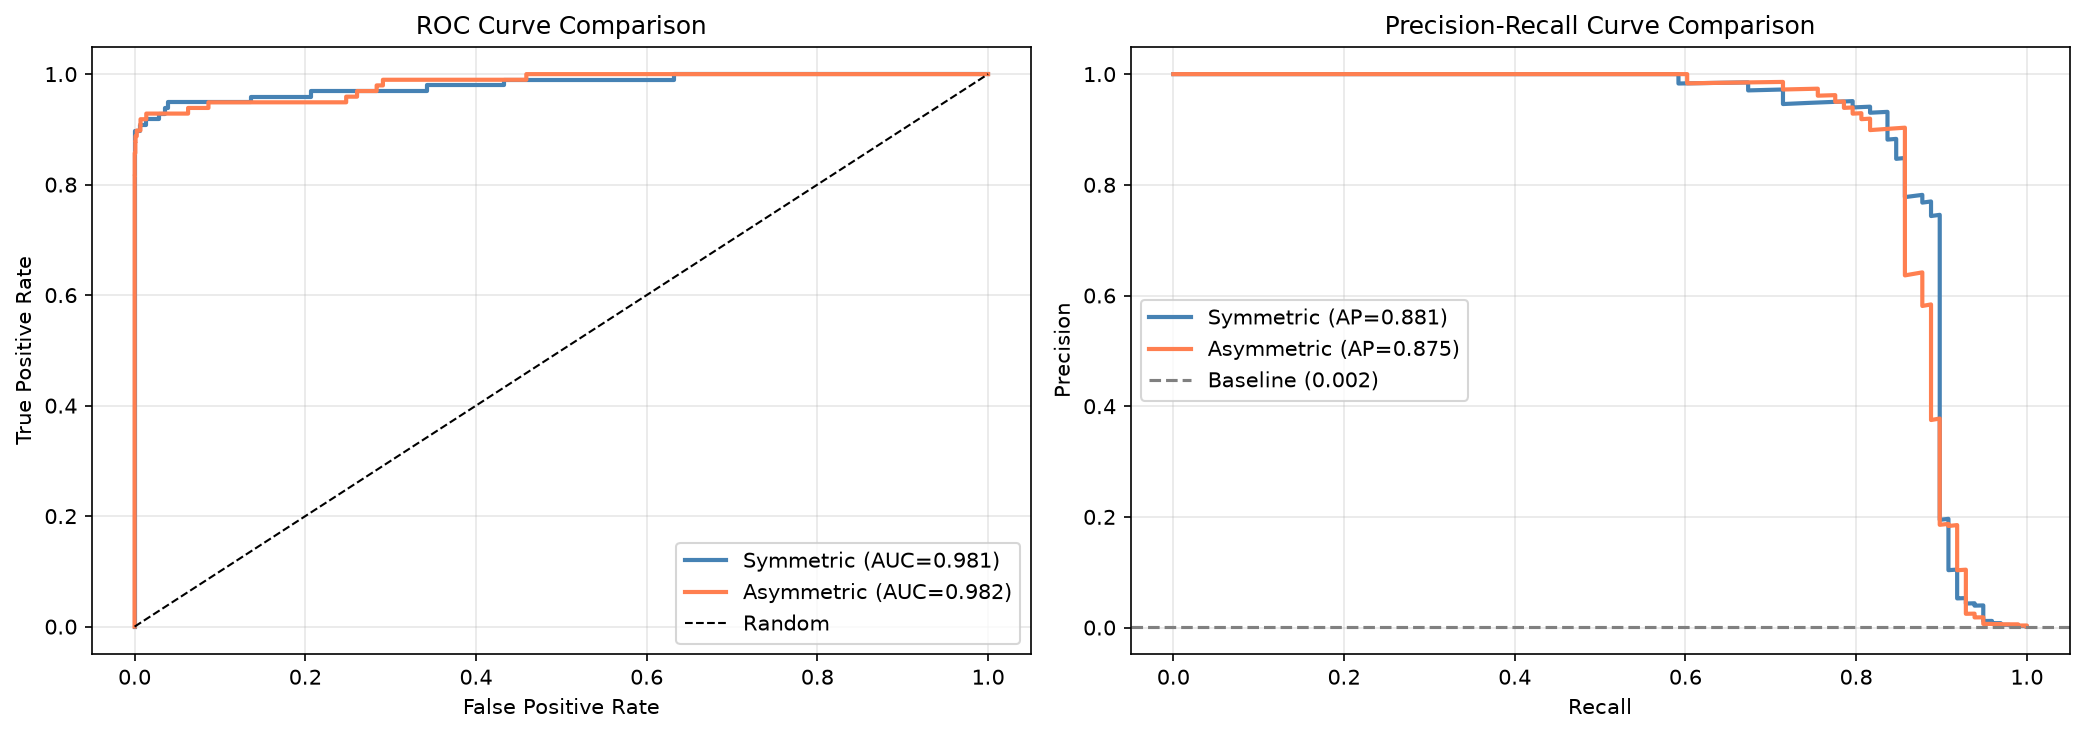
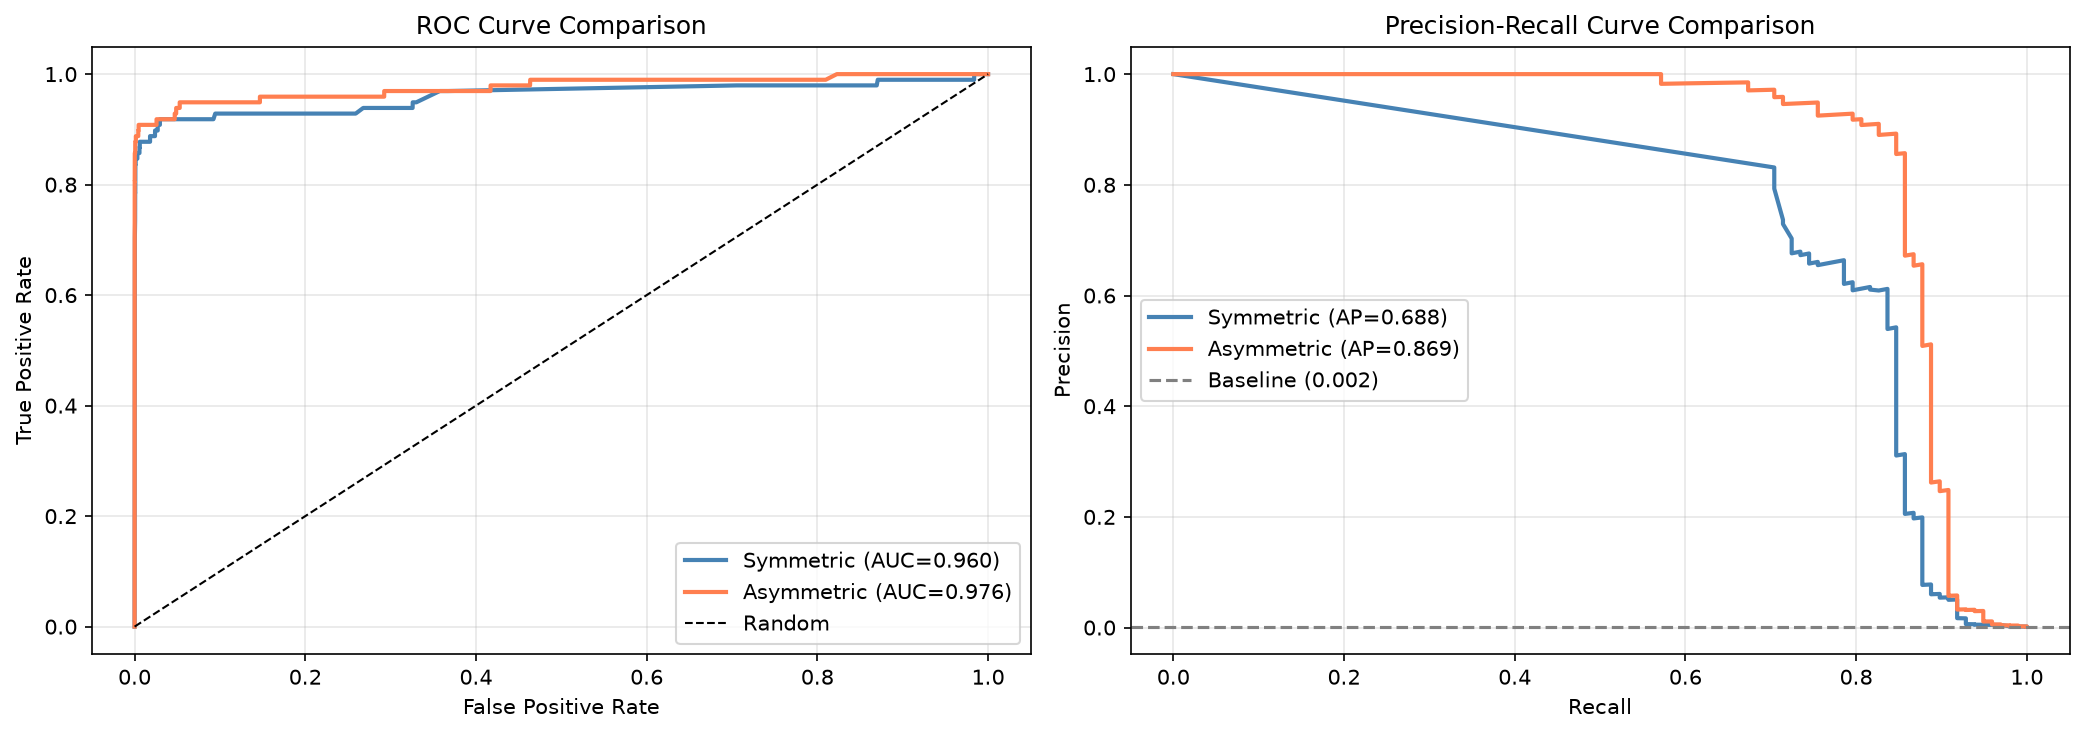
Refresh evaluation plots and clarify raw scores

diff --git a/src/dashboard.py b/src/dashboard.py
@@ -172,8 +172,8 @@ if tab_choice == "📊 Model Comparison & Audit":
     ) if metrics else 0
     st.subheader(f"Audited Test Evaluation on Untouched Held-Out Split ({test_row_count:,} Transactions)")
     st.write(
-        "Both models were trained on 199,364 transactions (0.173% positive rate), tuned on a distinct validation split (28,481 rows), "
-        "and evaluated **strictly once** on the held-out test set."
+        "Both models were trained on 199,364 transactions (0.173% positive rate). Thresholds and calibration were selected "
+        "using a distinct validation split (28,481 rows); the metrics below report performance on the separate held-out test set."
     )
 
     if metrics:
@@ -546,7 +546,10 @@ elif tab_choice == "🔍 Live Transaction Scoring & SHAP":
             # Local SHAP Feature Breakdown
             st.markdown("---")
             st.markdown("### 🔍 Exact Instance-Level SHAP Feature Contributions")
-            st.caption("Additive decomposition in log-odds: logit(p) = base_value + sum(shap_values).")
+            st.caption(
+                "SHAP values reconstruct the XGBoost raw margin before calibration: "
+                "raw margin = baseline value + sum(feature attributions). The decision uses the score shown above."
+            )
 
             sh_c1, sh_c2 = st.columns(2)
             with sh_c1:
@@ -579,10 +582,21 @@ elif tab_choice == "🔍 Live Transaction Scoring & SHAP":
                 else:
                     st.write("No features significantly lowered the score.")
 
+            shap_shift = local_exp["total_log_odds"] - local_exp["base_value_log_odds"]
+            calibration_note = (
+                f"Platt-calibrated decision score: **{decision.fraud_probability:.4%}**. "
+                "The calibrated score above is used for the action."
+                if calibrated
+                else f"Uncalibrated decision score: **{decision.fraud_probability:.4%}**. "
+                "This score is a model risk score, not a posterior probability."
+            )
             st.info(
-                f"**Attribution Sanity Check:**  \n"
-                f"Base Prior Log-Odds: `{local_exp['base_value_log_odds']}` (Base Probability: `{local_exp['base_probability']:.4%}`)  \n"
-                f"Total Log-Odds Shift: `{local_exp['total_log_odds']}` $\\rightarrow$ Final Posterior Fraud Probability: `{local_exp['fraud_probability']:.4%}`."
+                f"**Raw-margin attribution check (pre-calibration):**  \n"
+                f"Baseline margin: `{local_exp['base_value_log_odds']:+.4f}`; "
+                f"sum of SHAP contributions: `{shap_shift:+.4f}`; "
+                f"reconstructed raw margin: `{local_exp['total_log_odds']:+.4f}`; "
+                f"raw sigmoid score: `{local_exp['raw_model_score']:.4%}`.  \n"
+                f"{calibration_note}"
             )
 
     # Recent Predictions Section

diff --git a/src/explain.py b/src/explain.py
@@ -3,8 +3,8 @@ Explainability Module — Local SHAP Attribution & Global Importance
 ===================================================================
 Provides exact local feature attributions using SHAP TreeExplainer on XGBoost,
 strictly distinguishing between:
-1. Local Explanation: Why did *this specific transaction* receive its risk score?
-   Attributed via additive SHAP values: logit(p) = base_value + sum(shap_values)
+1. Local Explanation: Why did *this specific transaction* receive its model score?
+   Attributed via additive SHAP values: raw_margin = base_value + sum(shap_values)
 2. Global Feature Importance: Which features matter most across the dataset overall?
    Computed via average gain or mean |SHAP| over background transactions.
 """
@@ -53,7 +53,7 @@ class TransactionExplainer:
 
         Returns:
             Dictionary containing local SHAP values, risk-increasing factors,
-            risk-decreasing factors, base probability, and final probability.
+            risk-decreasing factors, the raw model margin, and its uncalibrated sigmoid score.
         """
         if X_scaled.ndim == 1:
             X_scaled = X_scaled.reshape(1, -1)
@@ -94,9 +94,12 @@ class TransactionExplainer:
 
         return {
             "explanation_type": "local_shap_attribution",
+            "score_semantics": "uncalibrated_raw_margin_sigmoid",
             "base_value_log_odds": round(self.base_value, 4),
             "base_probability": round(self.base_probability, 6),
             "total_log_odds": round(total_margin, 4),
+            "raw_model_score": round(reconstructed_prob, 6),
+            # Compatibility alias: this is the raw sigmoid score, not a calibrated posterior.
             "fraud_probability": round(reconstructed_prob, 6),
             "top_risk_increasing_factors": risk_increasing[:top_k],
             "top_risk_decreasing_factors": risk_decreasing[:top_k],

diff --git a/src/evaluate.py b/src/evaluate.py
@@ -135,10 +135,11 @@ def plot_confusion_matrices(sym_metrics: dict, asym_metrics: dict, save: bool = 
     fig, axes = plt.subplots(1, 2, figsize=(12, 5))
     fig.suptitle("Confusion Matrix: Symmetric vs Asymmetric", fontsize=14, fontweight="bold")
 
-    for ax, m, title in zip(axes,
-                             [sym_metrics, asym_metrics],
-                             ["Symmetric Model\n(threshold=0.50)",
-                              f"Asymmetric Model\n(threshold={asym_metrics['threshold']:.2f})"]):
+    titles = [
+        f"Symmetric Model\n(threshold={sym_metrics['threshold']:.3f})",
+        f"Asymmetric Model\n(threshold={asym_metrics['threshold']:.3f})",
+    ]
+    for ax, m, title in zip(axes, [sym_metrics, asym_metrics], titles):
         cm = np.array([[m["TN"], m["FP"]], [m["FN"], m["TP"]]])
         sns.heatmap(cm, annot=True, fmt=",d", cmap="Blues", ax=ax,
                     xticklabels=["Predicted: Legit", "Predicted: Fraud"],

diff --git a/src/api.py b/src/api.py
@@ -415,7 +415,8 @@ def explain_transaction(
 ):
     """
     Detailed instance-level local SHAP explanation.
-    Decomposes log-odds: logit(p) = base_value + sum(shap_values).
+    Decomposes the XGBoost raw margin before calibration: raw_margin = base_value + sum(shap_values).
+    The returned SHAP ``raw_model_score`` is its uncalibrated sigmoid score; use /predict for the decision score.
     """
     if _explainer is None:
         raise HTTPException(status_code=status.HTTP_503_SERVICE_UNAVAILABLE, detail="SHAP Explainer not initialized.")

diff --git a/README.md b/README.md
@@ -39,7 +39,7 @@ flowchart TD
     F1 --> G1["Validation Tuning (Val Split)\nEmpirical Threshold Selection"]
     F2 --> G2["Validation Tuning (Val Split)\nEmpirical Threshold Selection"]
     
-    G1 --> H["Single Held-Out Evaluation (Test Split)\nPrecision, Recall, PR-AUC, ROC-AUC, Total Cost"]
+    G1 --> H["Held-Out Evaluation (Test Split)\nPrecision, Recall, PR-AUC, ROC-AUC, Total Cost"]
     G2 --> H
     
     H --> I["Outputs & Persisted Artifacts\nmodels/ · outputs/model_comparison.json · plots/"]
@@ -72,7 +72,7 @@ flowchart LR
 
 These results were regenerated with the pinned Python 3.12 environment. Platt scaling was fitted on validation raw margins; all metrics below are from the held-out test set. Cost totals use the illustrative $5/$20 assumptions.
 
-Evaluated strictly once on the untouched held-out test split after validation-based threshold selection ($C_{FP} = \$5.00, C_{FN} = \$20.00$):
+Reported on the untouched held-out test split after model, calibration, and threshold selection using validation data ($C_{FP} = \$5.00, C_{FN} = \$20.00$):
 
 | Metric | Symmetric XGBoost (Baseline) | Asymmetric XGBoost (Cost-Sensitive) | Operational Impact |
 | :--- | :---: | :---: | :--- |
@@ -131,14 +131,14 @@ FraudShield AI strictly separates **local transaction explanations** from **glob
 │   Local Attribution (SHAP)        │   Global Feature Importance        │
 ├───────────────────────────────────┼────────────────────────────────────┤
 │ • "Why was TX #38213 blocked?"    │ • "What does the model know overall?"│
-│ • Additive log-odds breakdown:    │ • Gain: Average improvement in split│
-│   logit(p) = base_val + Σ φ_i     │   objective across all trees       │
+│ • Raw-margin breakdown:           │ • Gain: Average improvement in split│
+│   margin = base_val + Σ φ_i       │   objective across all trees       │
 │ • Flags exact red flags vs        │ • Frequency: Number of tree splits │
 │   signals of legitimacy           │ • Dataset-level behavioral trends  │
 └───────────────────────────────────┴────────────────────────────────────┘
 ```
 
-- **Local Attributions** (`src/explain.py`): Uses `shap.TreeExplainer` on the booster. Every transaction prediction is decomposed into additive feature contributions ($\phi_i$), showing the base log-odds ($\approx -6.54$, base fraud rate $0.14\%$) plus individual feature contributions.
+- **Local Attributions** (`src/explain.py`): Uses `shap.TreeExplainer` on the booster. Each transaction's XGBoost raw margin is decomposed into additive feature contributions ($\phi_i$). Its sigmoid is an uncalibrated model score; the dashboard decision uses the separately Platt-calibrated score when a calibrator is present.
 - **Red Flags vs Mitigating Signals**: Features with $\phi_i > 0$ represent risk drivers (e.g., extreme negative anomaly in $V14$); features with $\phi_i < 0$ represent mitigating evidence (e.g., standard daytime timestamp).
 
 ---
